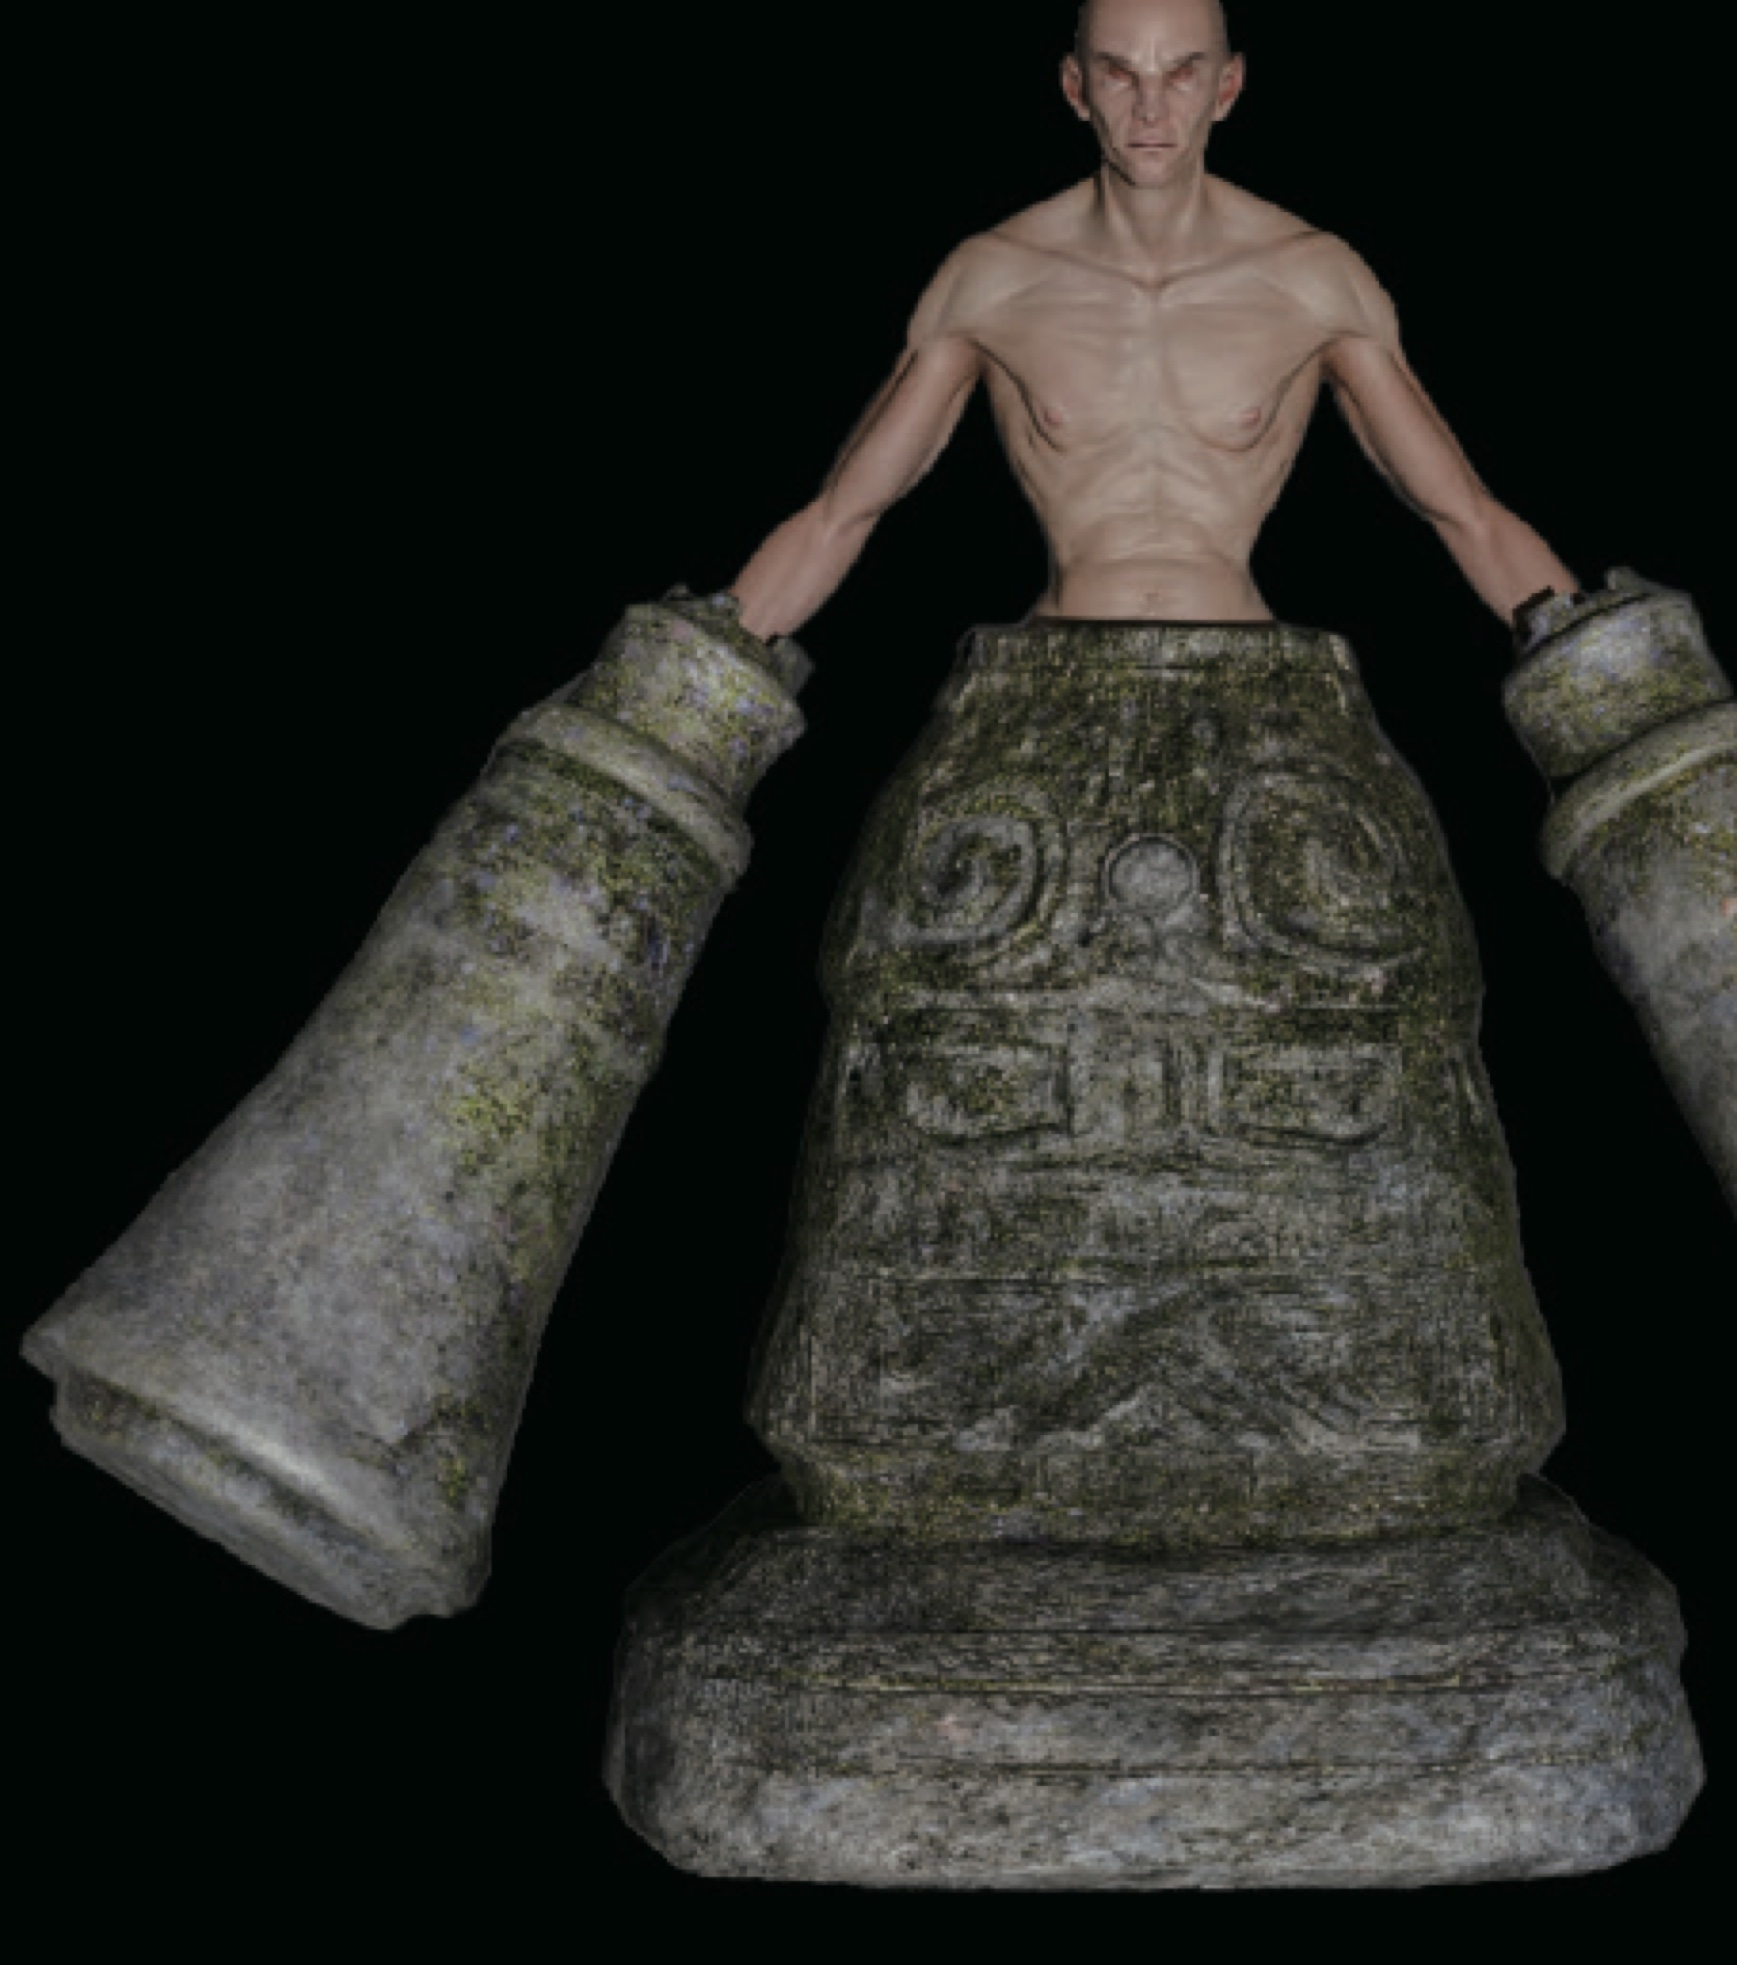
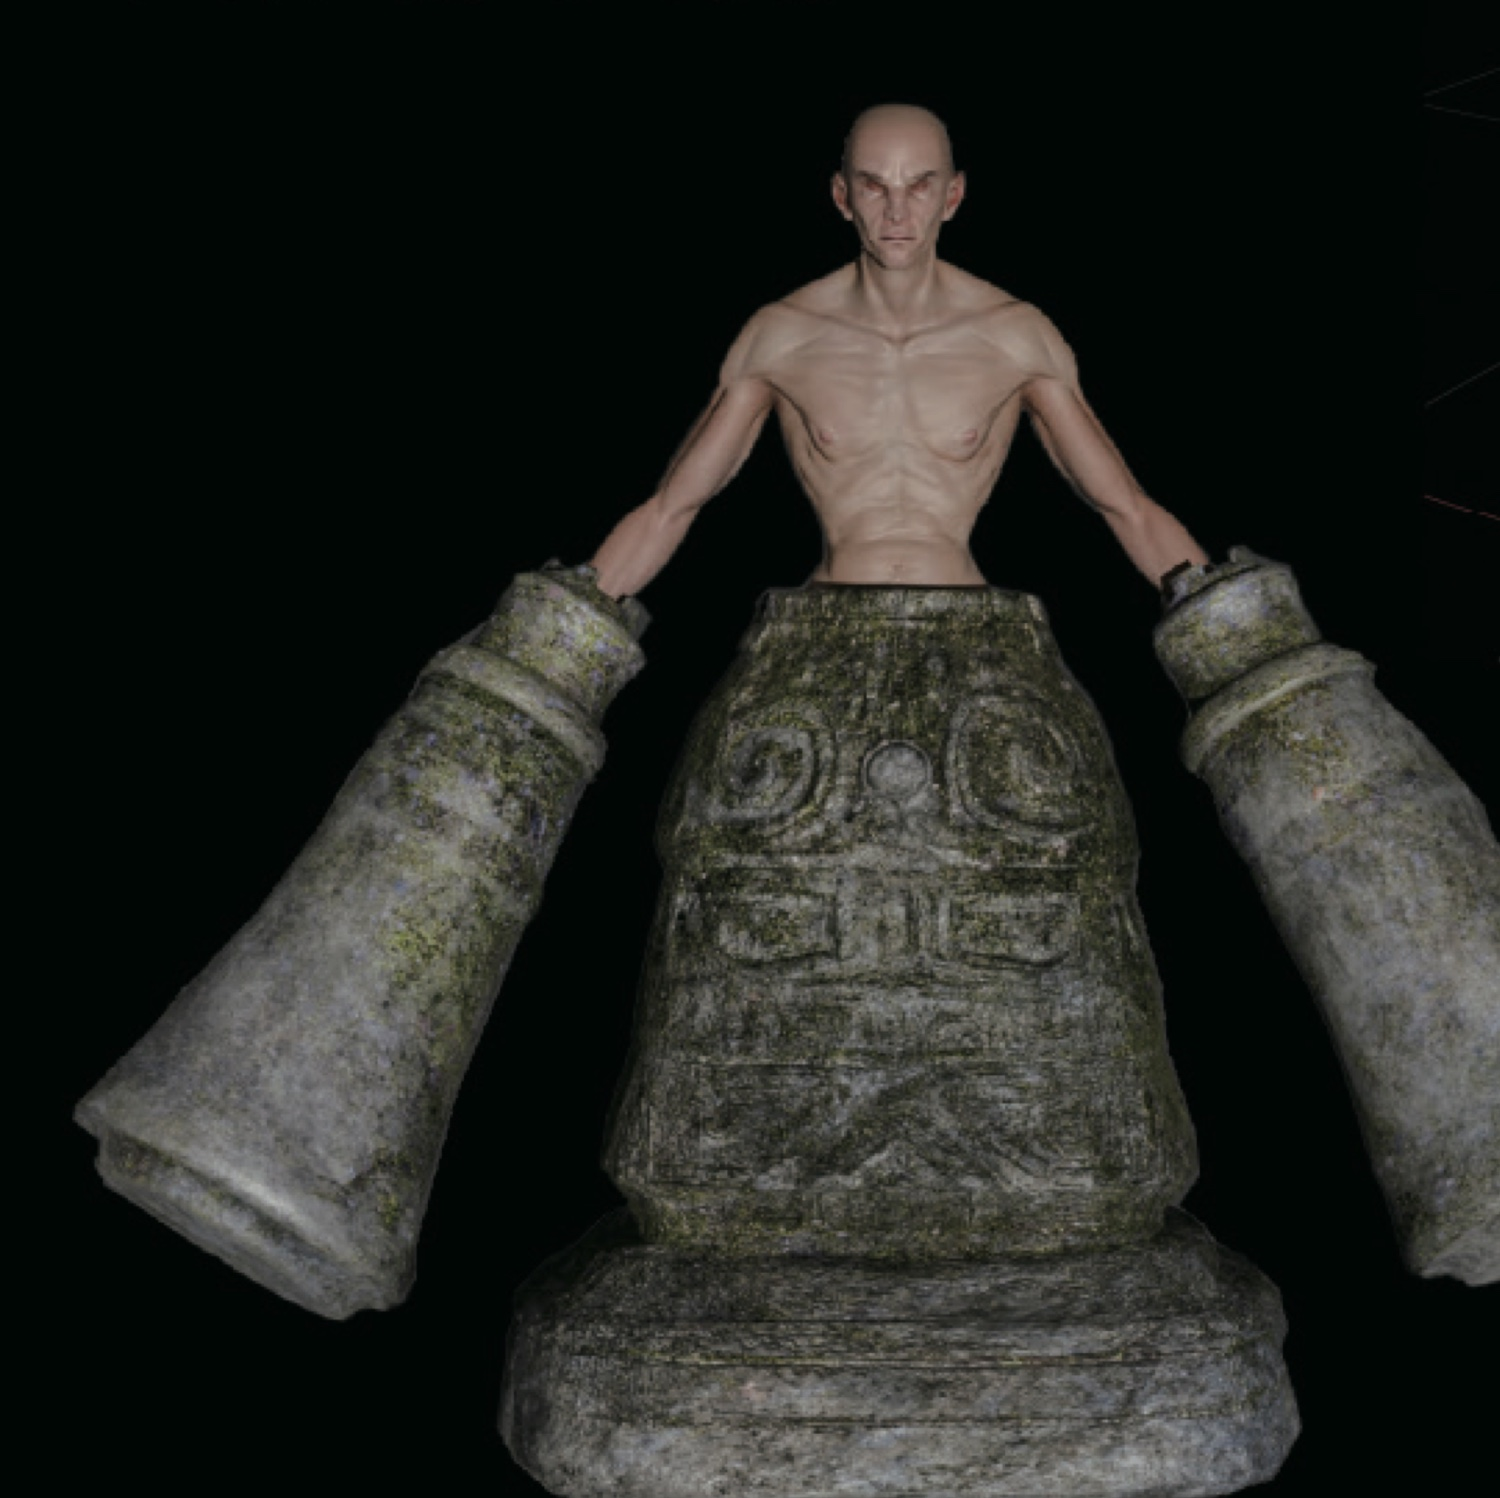
Fix hero button overlap and recrop the ABYSS statue in full
The hero parallax drifted the CTA buttons downward as the page scrolled,
so they could linger over 作品ピックアップ before fully fading. Dropped
the drift entirely — the hero now only fades opacity (out within 45% of
a viewport height) and disables pointer-events once nearly invisible.

The ABYSS II statue's STEP 04 image had both arms cut off at the crop
edges; re-measured the source slide with a grid overlay and recropped to
include the full figure.

diff --git a/assets/js/main.js b/assets/js/main.js
@@ -62,20 +62,20 @@ function initReveal(scope = document) {
 }
 initReveal();
 
-// ===== Hero parallax =====
-// Drifts the headline slower than the page and fades it as it leaves.
+// ===== Hero fade-out =====
+// Fades the headline and buttons out as the page scrolls past them — no
+// positional drift, so they never linger over the section below.
 const heroInner = document.querySelector(".hero-inner");
 if (heroInner && !REDUCED_MOTION) {
   let ticking = false;
+  const fadeDistance = () => window.innerHeight * 0.45;
   const onScroll = () => {
     if (ticking) return;
     ticking = true;
     requestAnimationFrame(() => {
-      const y = window.scrollY;
-      if (y < window.innerHeight) {
-        heroInner.style.transform = `translateY(${y * 0.28}px)`;
-        heroInner.style.opacity = String(Math.max(0, 1 - y / (window.innerHeight * 0.75)));
-      }
+      const opacity = Math.max(0, 1 - window.scrollY / fadeDistance());
+      heroInner.style.opacity = String(opacity);
+      heroInner.style.pointerEvents = opacity < 0.05 ? "none" : "";
       ticking = false;
     });
   };
